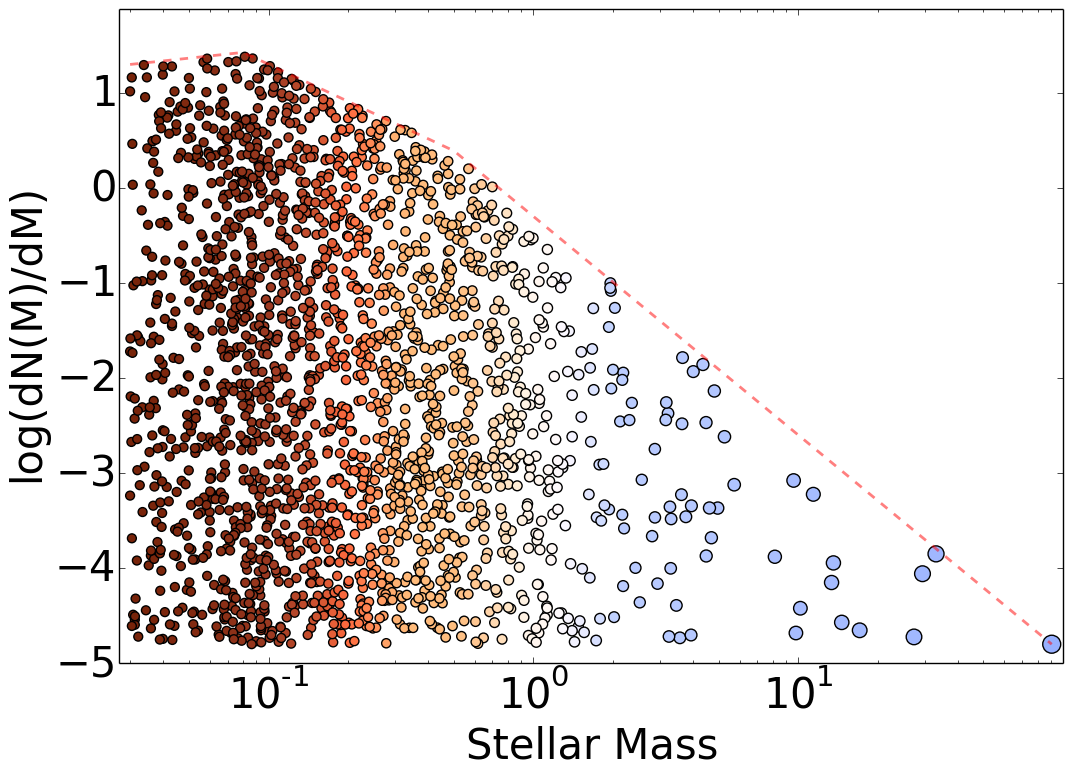
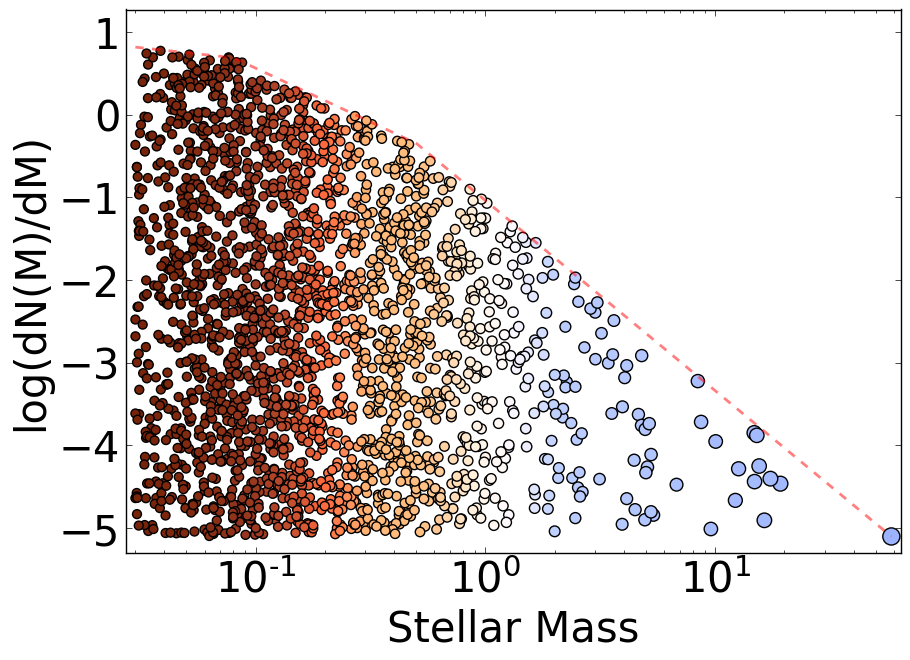
figure details

diff --git a/examples/imf_figure.py b/examples/imf_figure.py
@@ -4,8 +4,10 @@ import numpy as np
 
 if __name__ == "__main__":
     import pylab as pl
+    pl.matplotlib.style.use('classic')
+    
     pl.rc('font',size=30)
-    pl.figure(1)
+    pl.figure(1, figsize=(20,16))
     pl.clf()
     cluster,yax,colors = coolplot(1000, massfunc=kroupa)
     pl.scatter(cluster, yax, c=colors, s=np.log10(cluster+3)*85)
